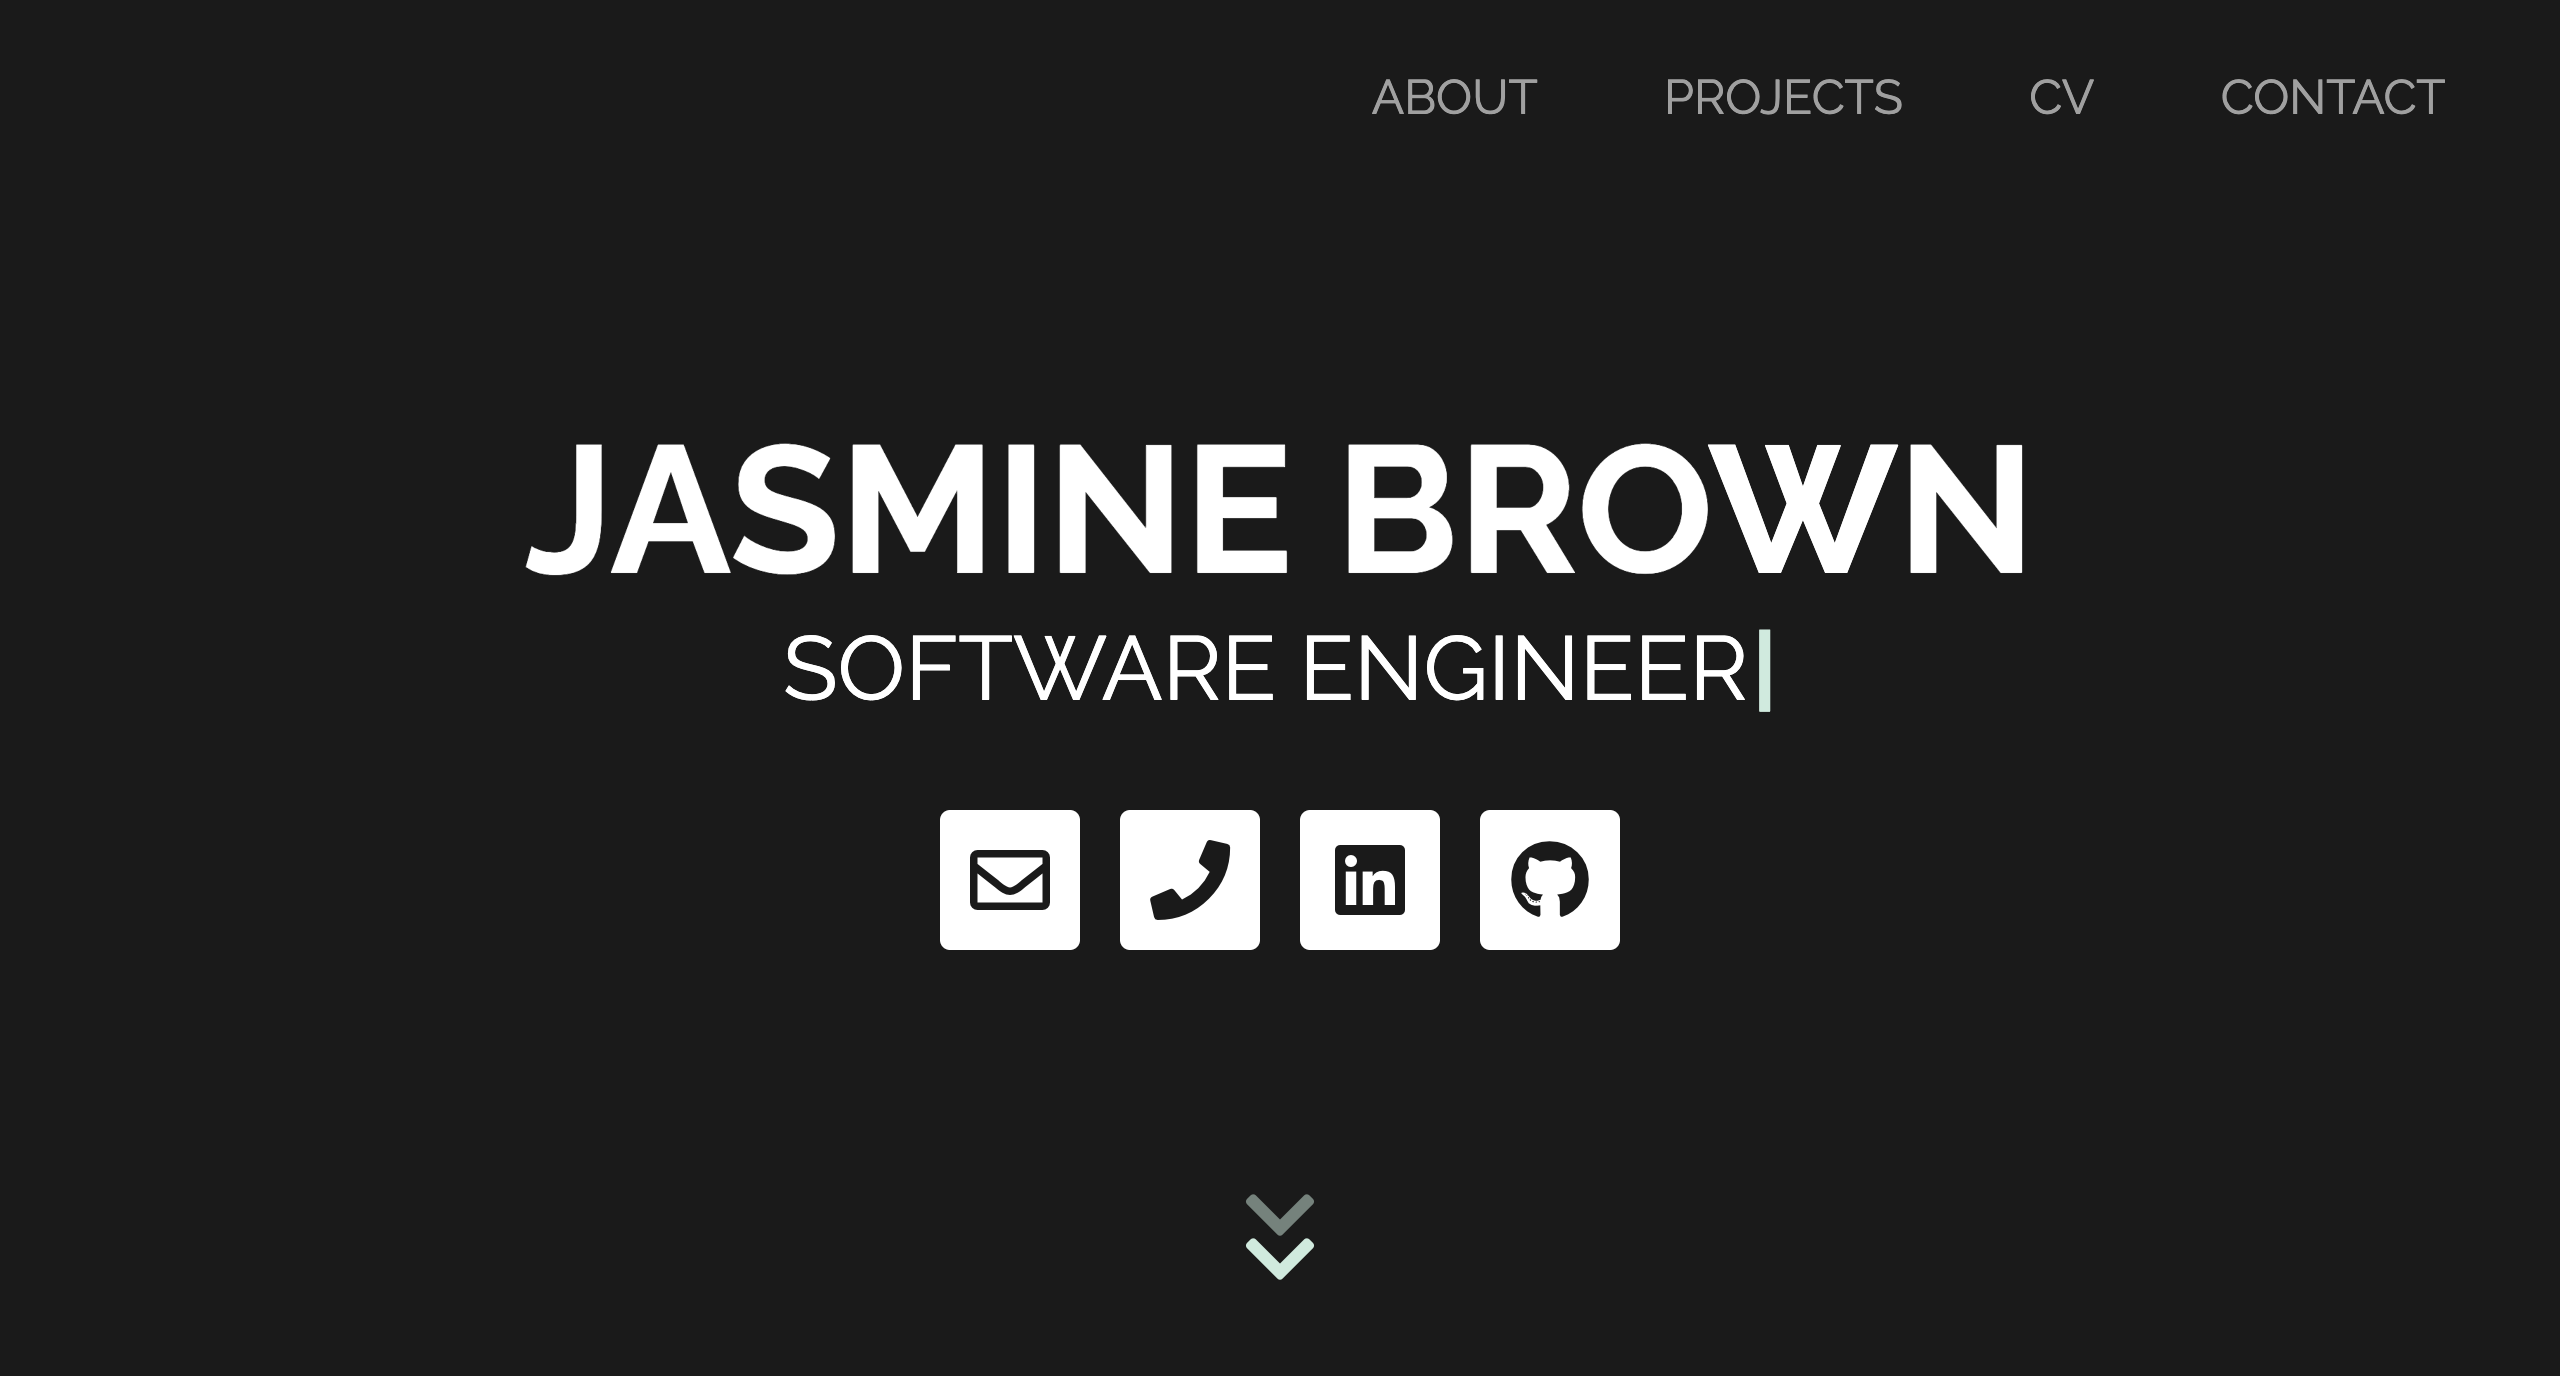
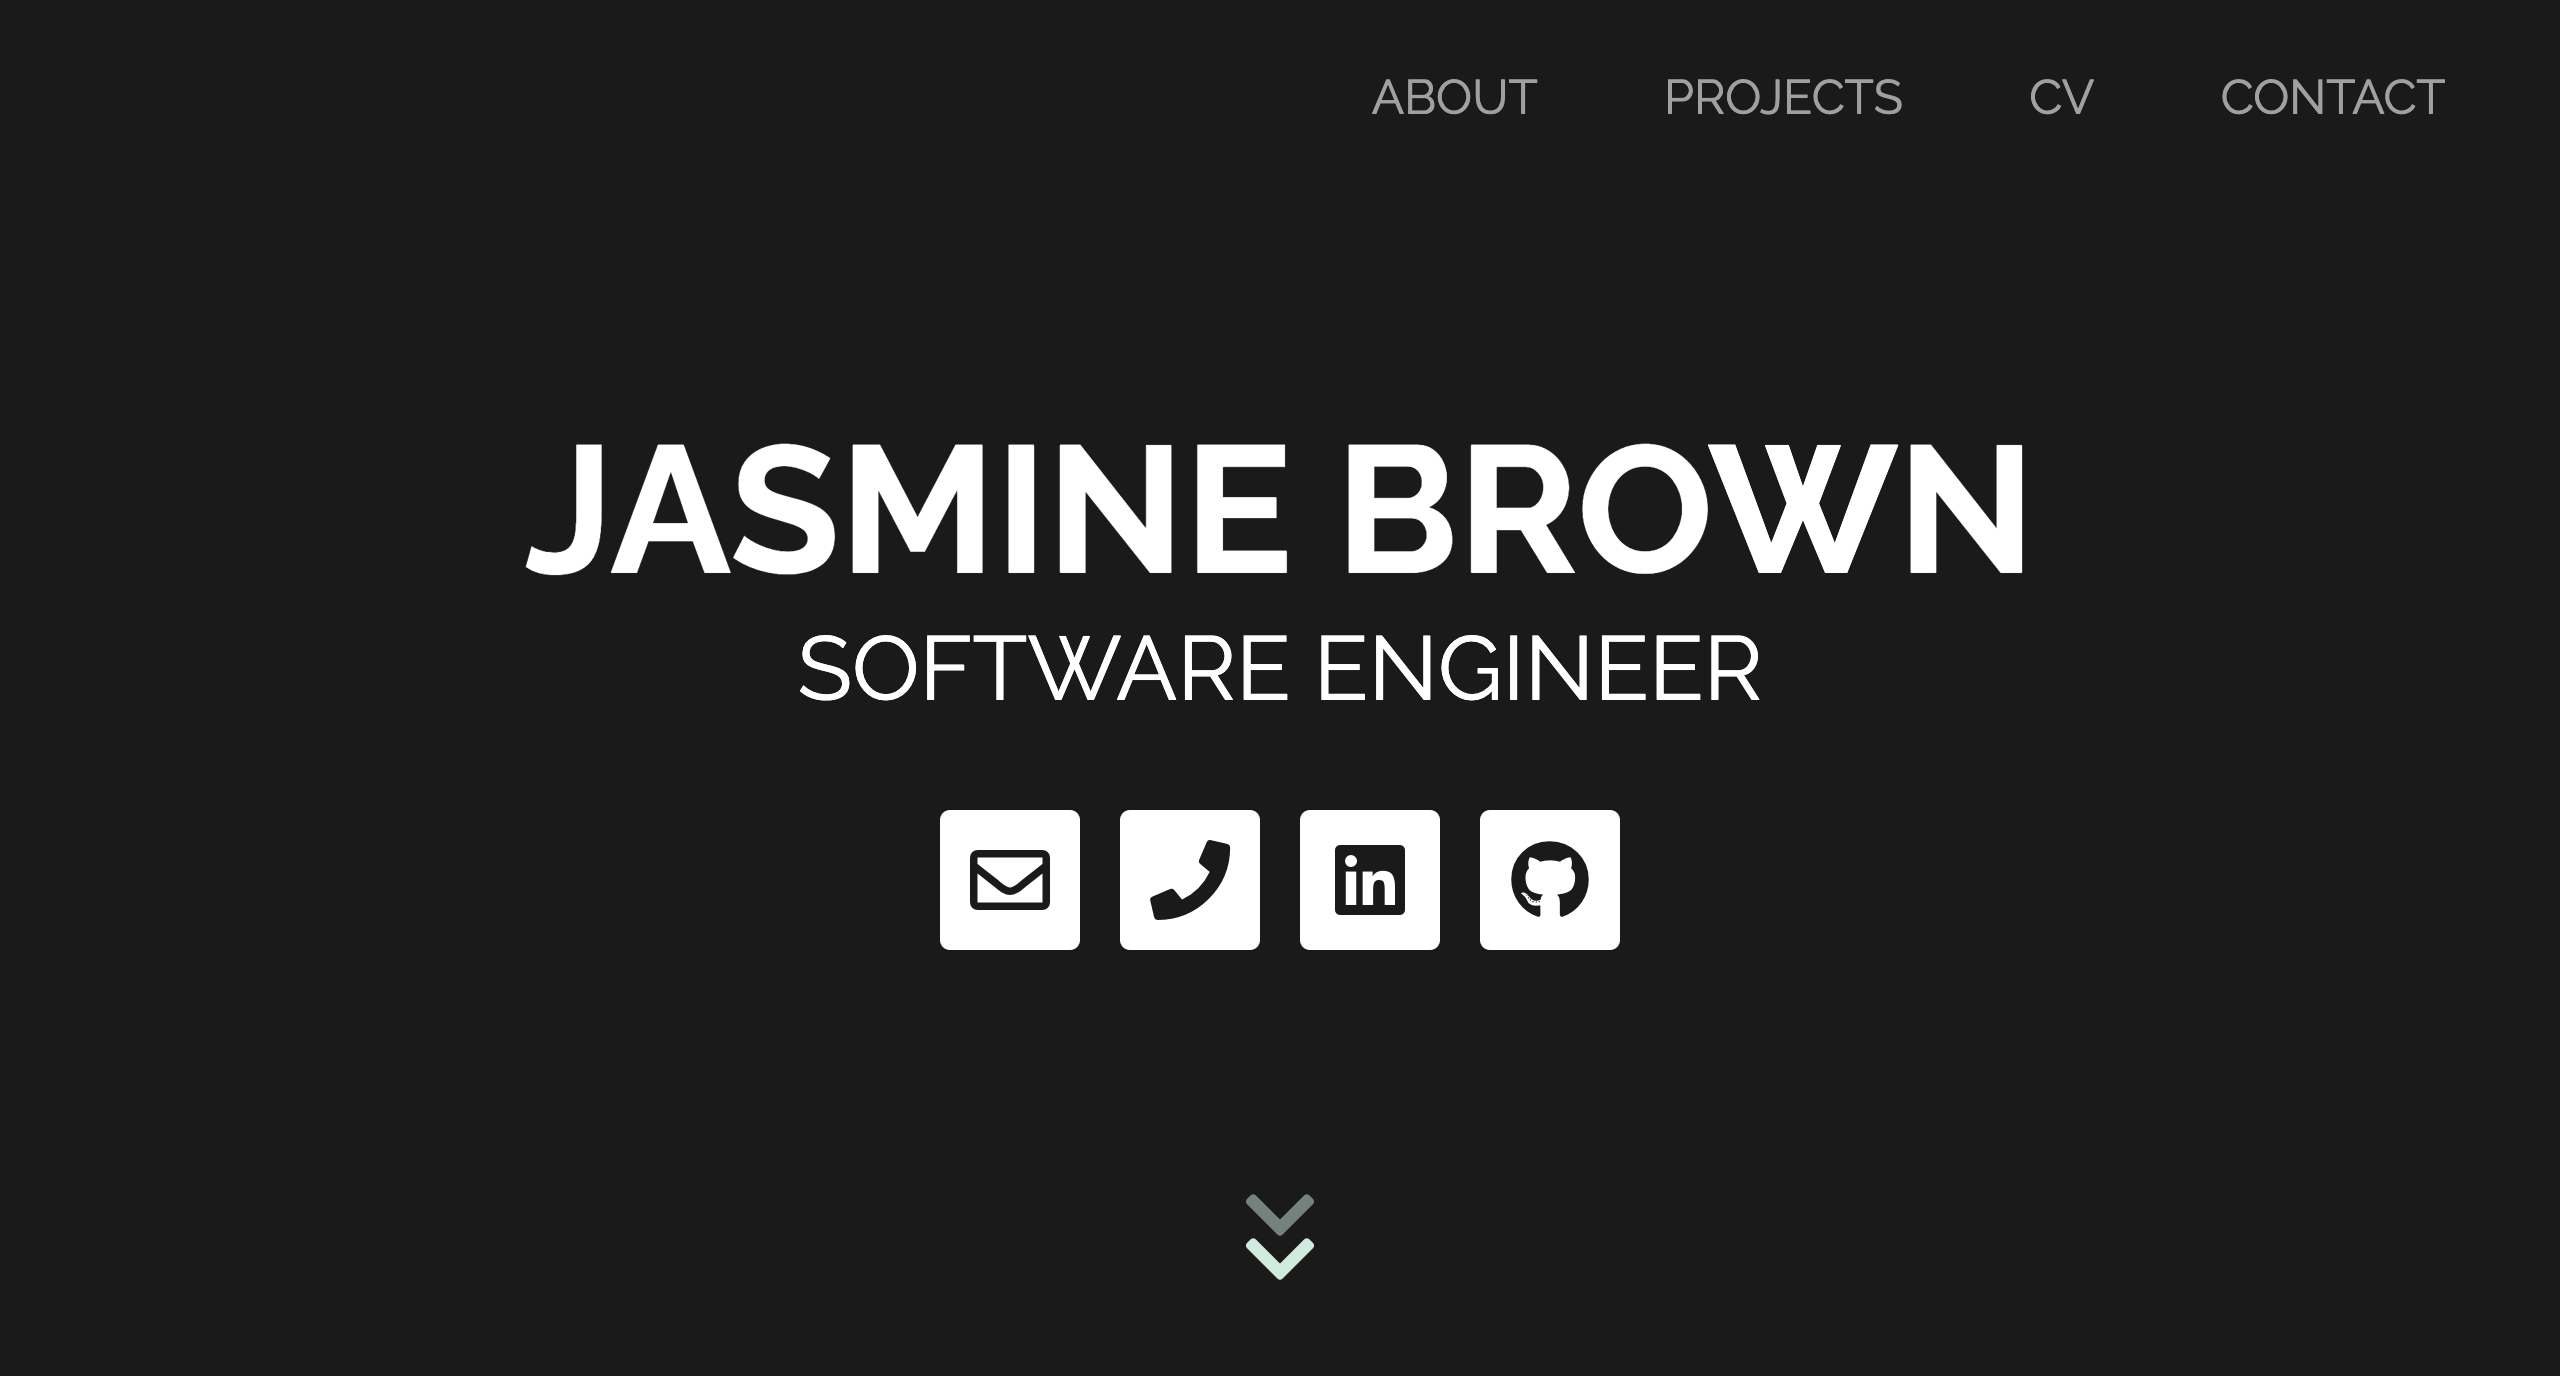
projects scroll finished

Changed region(s): [[0.3125, 0.4375, 0.7188, 0.5312]]

diff --git a/js/timeline.js b/js/timeline.js
@@ -19,7 +19,7 @@ let allData = {"years": [
 		"description": "I learnt to develop native mobile apps for iOS and Android and implemented new features for the startup's app, primarily a magazine to drive community engagement and provide entertainment within the app. Working from a fairly broad initial brief, I designed the front-end, implemented the back-end (using Firebase), incorporated feedback then deployed the feature to app stores. I developed useful skills including collaborative version control, researching new concepts, and debugging a large codebase."},
 		{"month": 7, "endMonth": 6, "endYear": 2022, "category": ["workexp", "jobs"],
 		"title": "👩💻&emsp;Started as a Web Assistant at Warwick Students' Union",
-		"description": "As part of the Communications and Marketing team at Warwick SU, I've worked on various projects, including developing microsites for key SU events such as Varsity and Welcome Week; co-ordinating the redesign of the Student Voice website section; and improving our election nomination and voting processes. As well as these larger projects, I also respond to day-to-day requests such as updating content and email templates; fixing bugs; and providing technical support to staff and students."},
+		"description": "I've worked on various projects, including developing microsites for key SU events such as Varsity and Welcome Week; co-ordinating the redesign of the Student Voice website section; and improving our election nomination and voting processes. As well as these larger projects, I also provided day-to-day web requests such as updating content and email templates; fixing bugs; and providing technical support to staff and students."},
 		{"month": 6, "endMonth": "", "endYear": "", "category": ["extra", "workexp"],
 		"title": "💻&emsp;Joined WarwickTECH",
 		"description": "Became an Associate at WarwichTECH, a student-led angel fund and tech hub at the University of Warwick."},
@@ -43,7 +43,7 @@ let allData = {"years": [
 	{"year": 2018, "events": [
 		{"month": 9, "endMonth": 8, "endYear": 2020, "category": ["education"],
 		"title": "📘&emsp;Started A Levels",
-		"description": "I took A Levels in Maths, Physics, Computer Science and Further Maths, plus an EPQ on the topic 'How can machine learning be applied to reduce crime?'. I achieved grades A*A*A*A and an A* in my EPQ."},
+		"description": "I took A Levels in Maths, Physics, Computer Science and Further Maths, plus an Extended Project Qualification (EPQ) studying how machine learning can be applied to reduce crime. I achieved grades A*A*A*A plus an A* in my EPQ."},
 		{"month": 10, "endMonth": 4, "endYear": 2019, "category": ["workexp"],
 		"title": "🐆&emsp;Work placement at Cougar Automation",
 		"description": "This was a 6-month work experience placement every Wednesday afternoon where I worked on the SCADA user interface for a water treatment plant and helped to set up Profibus networks as well as helping with various tasks around the office."}
@@ -56,7 +56,7 @@ let allData = {"years": [
 	{"year": 2016, "events": [
 		{"month": 10, "endMonth": 6, "endYear": 2017, "category": ["extra"],
 		"title": "📖&emsp;Volunteered at Madginford Library",
-		"description": "I volunteered at my local library as part of my Duke of Edinburgh's Award, where I ran an after-school activity club for primary school children."}
+		"description": "I volunteered at my local library as part of my Silver Duke of Edinburgh's Award, where I ran an after-school activity club for primary school children."}
 	]},
 	{"year": 2015, "events": [
 		{"month": 9, "endMonth": 8, "endYear": 2018, "category": ["education"],
@@ -66,17 +66,17 @@ let allData = {"years": [
 	{"year": 2013, "events": [
 		{"month": 9, "endMonth": 3, "endYear": 2020, "category": ["education"],
 		"title": "📕&emsp;Joined Invicta Grammar School",
-		"description": "Joined my secondary school, where I stayed for 7 years (including sixth form). During my time at Invicta, I was involved in many clubs and activities including music, debating and peer mentoring as well as completing my Bronze and Silver Duke of Edinburgh's awards."}
+		"description": "Joined my secondary school, where I stayed for 7 years (including sixth form). During my time at Invicta, I was involved in many clubs and activities including music, debating, peer mentoring and Duke of Edinburgh's Awards."}
 	]},
 	{"year": 2011, "events": [
 		{"month": 9, "endMonth": "", "endYear": "", "category": ["extra"],
 		"title": "🎷&emsp;Started learning saxophone",
-		"description": "In Year 5, I started learning to play the alto saxophone. I continued having lessons for over 7 years until I reached Grade 8, and then kept playing in my school orchestra and Big Band where I performed at many school concerts and other events."},
+		"description": "I started learning to play the alto saxophone in primary school. I continued having lessons for over 7 years until I reached Grade 8, and then kept playing in my school orchestra and Big Band where I performed at many concerts and events."},
 	]},
 	{"year": 2009, "events": [
 		{"month": 9, "endMonth": 7, "endYear": 2017, "category": ["extra"],
 		"title": "👯♀&emsp;Joined Directions Performing Arts",
-		"description": "Started learning Ballet, Tap and Modern (and, later on, Pointe) at Directions. This included performing in shows at the Hazlitt Theatre plus many local fayres and other events. I also achieved Grade 5 Tap, Ballet and Modern with Distinctions."}
+		"description": "Started learning Ballet, Tap and Modern (and, later on, Pointe) at Directions. This included performing in shows at the Hazlitt Theatre and other events. I also achieved Grade 5 Tap, Ballet and Modern with Distinctions."}
 	]}
 ]};
 let selectedData = allData;

diff --git a/js/projects.js b/js/projects.js
@@ -14,7 +14,7 @@ let allProjects = [
 		"type": "web-project",
 		"dates": "January - March 2022",
 		"image": "1-dashboard.png",
-		"technologies": "React Flask PostgreSQL Python JavaScript CSS",
+		"technologies": ["React", "Flask", "PostgreSQL", "Python", "JavaScript", "CSS"],
 	},
 	{
 		"id": "personal-portfolio",
@@ -23,7 +23,7 @@ let allProjects = [
 		"type": "web-project",
 		"dates": "June 2021 - present",
 		"image": "1-homepage.png",
-		"technologies": "HTML CSS JavaScript"
+		"technologies": ["HTML", "CSS", "JavaScript"]
 	},
 	{
 		"id": "hello-demo",
@@ -31,7 +31,8 @@ let allProjects = [
 		"subtitle": "iOS & Android Application",
 		"type": "app-project",
 		"dates": "June 2021",
-		"image": "1-select-language.png"
+		"image": "1-select-language.png",
+		"technologies": ["Swift", "Kotlin", "SwiftUI"]
 	},
 	{
 		"id": "your-chores",
@@ -39,7 +40,8 @@ let allProjects = [
 		"subtitle": "Web Application",
 		"type": "web-project",
 		"dates": "February - March 2021",
-		"image": "5-assigned-chores.png"
+		"image": "5-assigned-chores.png",
+		"technologies": ["HTML", "CSS", "JavaScript", "PHP", "PostgreSQL"]
 	},
 	{
 		"id": "social-scheduling",
@@ -95,6 +97,7 @@ function fillProjects() {
 	$("#proj-main-img").attr("src", getImageSrc(mainProject));
 	$("#proj-main-title").text(mainProject.title);
 	$("#proj-main-subtitle").text(mainProject.subtitle);
+	$("#proj-next-img").attr("src", getImageSrc(allProjects[projectNext]));
 }
 
 function getImageSrc(project) {
@@ -104,21 +107,11 @@ function getImageSrc(project) {
 function nextProject() {
 	projectN = checkUpperBound(projectN+1);
 	setPrevNext();
-
-	fillProjects();
-
-	// $(".project:nth-child("+lastN+")").css("opacity", 0);
-	// $(".project:nth-child("+projectN+")").css("opacity", 1);
 }
 
 function prevProject() {
 	projectN = checkLowerBound(projectN-1);
 	setPrevNext();
-
-	fillProjects();
-
-	// $(".project:nth-child("+lastN+")").css("opacity", 0);
-	// $(".project:nth-child("+projectN+")").css("opacity", 1);
 }
 
 function checkUpperBound(projectNum) {
@@ -138,5 +131,7 @@ function checkLowerBound(projectNum) {
 function setPrevNext() {
 	projectNext = checkUpperBound(projectN+1);
 	projectPrev = checkLowerBound(projectN-1);
+
+	fillProjects();
 }
 

diff --git a/css/projects.css b/css/projects.css
@@ -11,7 +11,10 @@
 }
 
 .project {
-	max-width: 100%;
+	max-width: 85vh;
+	padding: 20px;
+	border-radius: 10px;
+	position: absolute;
 
 	-webkit-transition: background-color 0.25s ease;
 	-ms-transition: background-color 0.25s ease;
@@ -20,14 +23,37 @@
 	transition: background-color 0.25s ease;
 }
 
+#proj-main {
+	z-index: 2;
+	left: auto;
+	right: auto;
+	min-width: 80vh;
+}
+
 #proj-main-img {
+	display: block;
 	height: 45vh;
-	margin-left: auto;
-	margin-right: auto;
+	margin: 0 auto 20px auto;
+	border-radius: 2px;
+}
+
+#proj-next {
+	min-width: 40vh;
+	max-width: 57vh;
+	z-index: 1;
+	right: -2vw;
+	top: 10vh;
+}
+
+#proj-next-img {
+	display: block;
+	height: 30vh;
+	margin: 0 auto 0 auto;
 }
 
 .project:hover {
 	background-color: var(--accent-colour);
+	background-color: rgba(202, 235, 221, 0.5);
 	cursor: pointer;
 }
 
@@ -42,7 +68,7 @@
 }
 
 
-/** Scroll right and left icons/animation **/
+/** Next and prev chevron animations **/
 #scroll-next, #scroll-prev {
 	position: absolute;
 	padding: 20vh 10px;

diff --git a/js/typing.js b/js/typing.js
@@ -23,6 +23,8 @@ async function startTypingAnimation() {
 		await backspace(headlines[s], headlines[s].length);
 		await write(headlines[s+1], 0);
 	}
+
+	$("#subtitle").addClass("no-caret");
 }
 
 function backspace(str, i) {

diff --git a/css/main.css b/css/main.css
@@ -12,7 +12,7 @@
 	font-weight: 400;
 }
 
-#subtitle::after {
+#subtitle:not(.no-caret)::after {
 	content: "|";
 	margin-left: 0.05em;
 	font-weight: 700;
